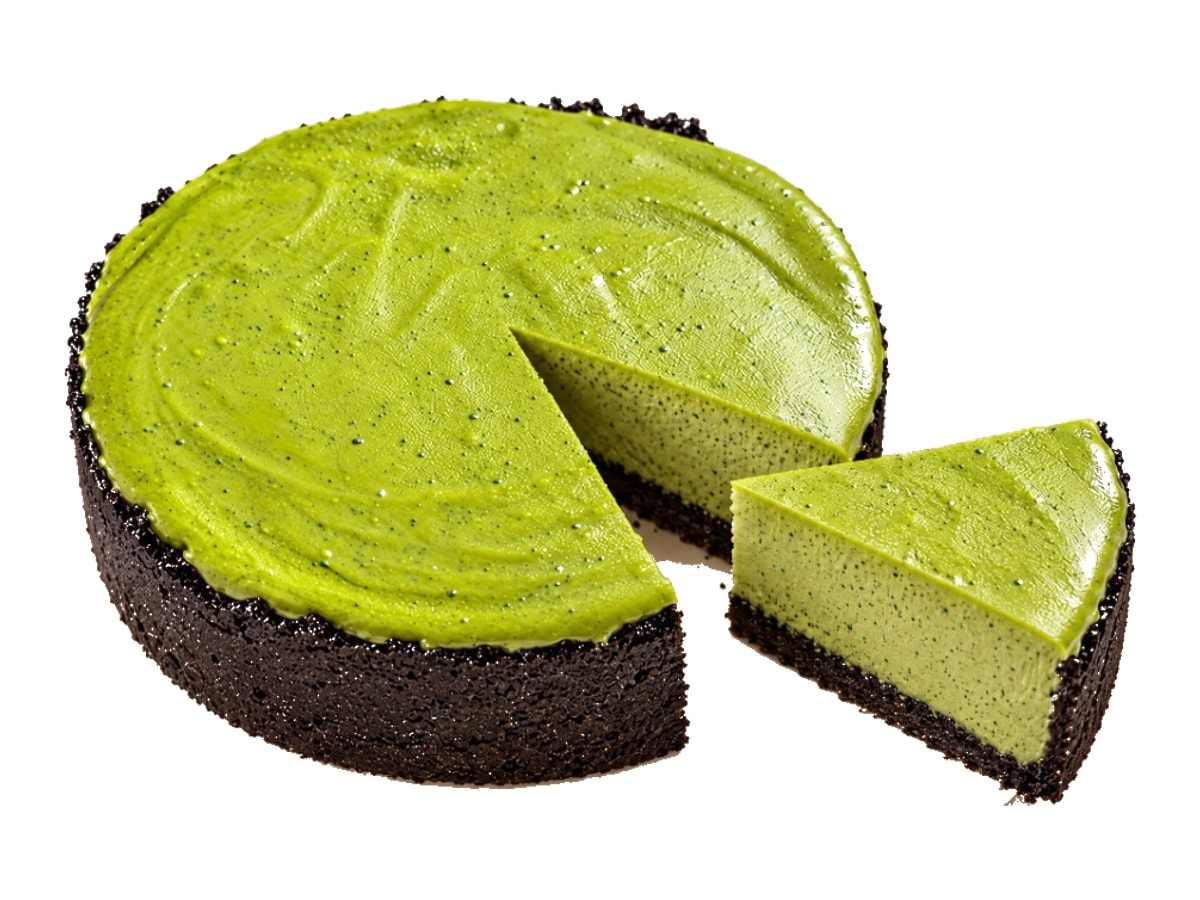
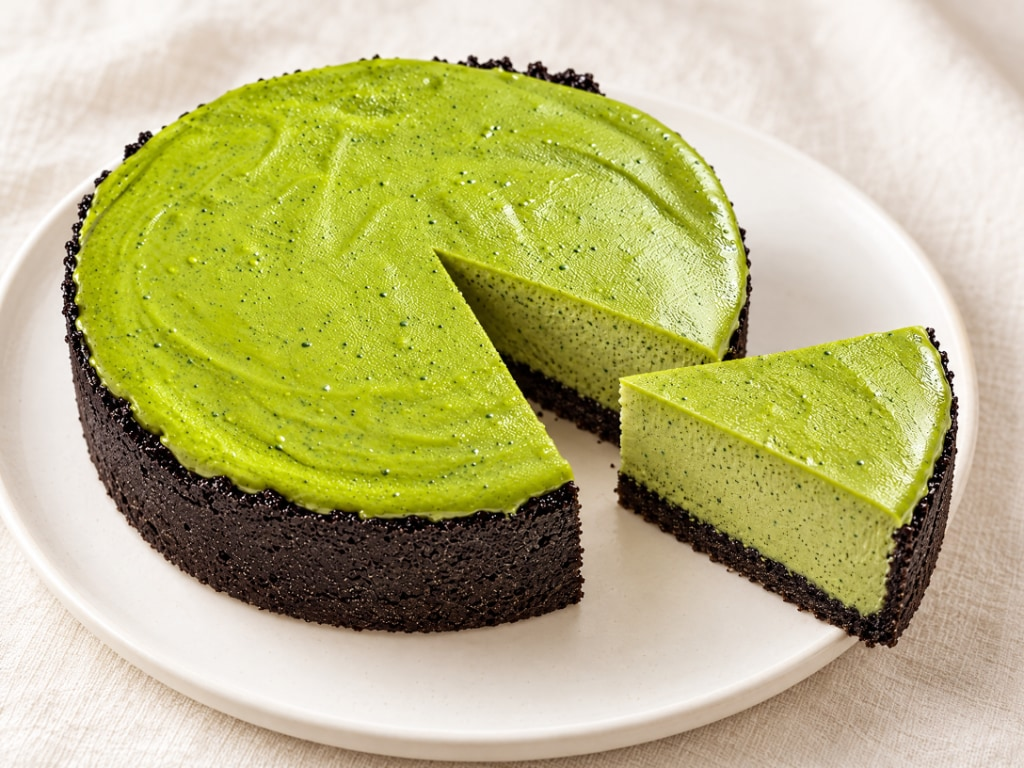
Add matcha mousse product photo gallery

diff --git a/src/components/admin/product-manager.tsx b/src/components/admin/product-manager.tsx
@@ -19,6 +19,7 @@ export type AdminProduct = {
   stock: number;
   isActive: boolean;
   imageUrl: string | null;
+  galleryImages: string[];
   ingredients: string | null;
   internalRecipe: string | null;
   launchAt: Date | null;
@@ -44,6 +45,7 @@ type Draft = {
   stock: string;
   isActive: boolean;
   imageUrl: string;
+  galleryImages: string;
   ingredients: string;
   internalRecipe: string;
   launchAt: string;
@@ -64,6 +66,7 @@ const emptyDraft: Draft = {
   stock: "0",
   isActive: true,
   imageUrl: "",
+  galleryImages: "",
   ingredients: "",
   internalRecipe: "",
   launchAt: "",
@@ -85,6 +88,7 @@ function toDraft(product: AdminProduct): Draft {
     stock: String(product.stock),
     isActive: product.isActive,
     imageUrl: product.imageUrl ?? "",
+    galleryImages: product.galleryImages.join("\n"),
     ingredients: product.ingredients ?? "",
     internalRecipe: product.internalRecipe ?? "",
     launchAt: product.launchAt ? toDateTimeInput(product.launchAt) : "",
@@ -162,6 +166,7 @@ export function ProductManager({ products, categories, initialFilter }: { produc
     stock: Number(draft.stock),
     isActive: draft.isActive,
     imageUrl: draft.imageUrl,
+    galleryImages: draft.galleryImages.split(/\r?\n/).map((imageUrl) => imageUrl.trim()).filter(Boolean),
     ingredients: draft.ingredients,
     internalRecipe: draft.internalRecipe,
     launchAt: draft.launchAt ? new Date(draft.launchAt).toISOString() : null,
@@ -412,6 +417,17 @@ export function ProductManager({ products, categories, initialFilter }: { produc
                   <SafeImage src={draft.imageUrl || null} alt="圖片預覽" sizes="56px" className="object-cover" />
                 </div>
               </div>
+            </div>
+            <div className="sm:col-span-2">
+              <label className="field-label" htmlFor="p-gallery">商品圖片圖集（每行一個圖片網址，最多 8 張）</label>
+              <textarea
+                id="p-gallery"
+                className="field min-h-24"
+                value={draft.galleryImages}
+                onChange={(event) => updateDraft("galleryImages", event.target.value)}
+                placeholder="/images/products/product-photo-1.png&#10;/images/products/product-photo-2.png"
+              />
+              <p className="mt-1 text-xs text-cocoa-soft">商品詳情頁會顯示圖集；商品列表和購物袋仍使用上方的主圖片。</p>
             </div>
             <div className="sm:col-span-2">
               <label className="field-label" htmlFor="p-summary">簡短介紹（卡片顯示）</label>

diff --git a/src/app/(store)/products/[slug]/page.tsx b/src/app/(store)/products/[slug]/page.tsx
@@ -5,7 +5,7 @@ import { ProductPurchase } from "@/components/product-purchase";
 import { ProductLaunchReminder } from "@/components/product-launch-reminder";
 import { ProductViewTracker } from "@/components/product-view-tracker";
 import { FavoriteButton } from "@/components/favorite-button";
-import { SafeImage } from "@/components/safe-image";
+import { ProductImageGallery } from "@/components/product-image-gallery";
 import { Reveal } from "@/components/reveal";
 import { getProductBySlug } from "@/lib/products";
 import { formatLaunchDate } from "@/lib/brand";
@@ -68,22 +68,14 @@ export default async function ProductPage({ params }: { params: Params }) {
       </nav>
 
       <div className="mt-8 grid gap-10 lg:grid-cols-[1.05fr_1fr] lg:gap-16">
-        <div className="relative aspect-[4/3] overflow-hidden rounded-[1.25rem] bg-oat-soft animate-scale-in lg:aspect-[4/5]">
-          <SafeImage
-            src={product.imageUrl}
-            alt={`${product.name} 甜點示意圖片`}
-            priority
-            sizes="(max-width: 1024px) 92vw, 50vw"
-            className="object-cover"
-          />
-          {comingSoon ? (
-            <span className="badge absolute left-4 top-4 bg-caramel text-cream">即將上架</span>
-          ) : !product.isActive ? (
-            <span className="badge absolute left-4 top-4 bg-cocoa/85 text-cream">暫停販售</span>
-          ) : product.stock <= 0 ? (
-            <span className="badge absolute left-4 top-4 bg-cocoa/85 text-cream">缺貨中</span>
-          ) : null}
-        </div>
+        <ProductImageGallery
+          images={product.galleryImages.length > 0 ? product.galleryImages : product.imageUrl ? [product.imageUrl] : []}
+          alt={product.name}
+          badge={
+            comingSoon ? "即將上架" : !product.isActive ? "暫停販售" : product.stock <= 0 ? "缺貨中" : null
+          }
+          badgeTone={comingSoon ? "caramel" : "cocoa"}
+        />
 
         <div>
           <div className="animate-rise" style={{ animationDelay: "120ms" }}>

diff --git a/src/components/product-image-gallery.tsx b/src/components/product-image-gallery.tsx
@@ -1,0 +1,61 @@
+"use client";
+
+import { useState } from "react";
+import { SafeImage } from "@/components/safe-image";
+
+export function ProductImageGallery({
+  images,
+  alt,
+  badge,
+  badgeTone,
+}: {
+  images: string[];
+  alt: string;
+  badge: string | null;
+  badgeTone: "caramel" | "cocoa";
+}) {
+  const [selectedIndex, setSelectedIndex] = useState(0);
+  const selectedImage = images[selectedIndex] ?? images[0] ?? null;
+
+  return (
+    <div className="space-y-3 animate-scale-in">
+      <div className="relative aspect-[4/3] overflow-hidden rounded-[1.25rem] bg-oat-soft lg:aspect-[4/5]">
+        <SafeImage
+          src={selectedImage}
+          alt={`${alt} 商品圖片 ${selectedIndex + 1}`}
+          priority
+          sizes="(max-width: 1024px) 92vw, 50vw"
+          className="object-cover"
+        />
+        {badge ? (
+          <span className={`badge absolute left-4 top-4 ${badgeTone === "caramel" ? "bg-caramel" : "bg-cocoa/85"} text-cream`}>
+            {badge}
+          </span>
+        ) : null}
+      </div>
+      {images.length > 1 ? (
+        <div className="grid grid-cols-3 gap-3" aria-label={`${alt} 更多商品圖片`}>
+          {images.map((image, index) => (
+            <button
+              key={`${image}-${index}`}
+              type="button"
+              onClick={() => setSelectedIndex(index)}
+              aria-label={`查看 ${alt} 第 ${index + 1} 張圖片`}
+              aria-pressed={selectedIndex === index}
+              className={`relative aspect-[4/3] overflow-hidden rounded-lg border-2 bg-oat-soft transition-colors ${
+                selectedIndex === index ? "border-caramel" : "border-transparent hover:border-caramel/50"
+              }`}
+            >
+              <SafeImage
+                src={image}
+                alt=""
+                sizes="(max-width: 640px) 28vw, 15vw"
+                className="object-cover"
+              />
+            </button>
+          ))}
+        </div>
+      ) : null}
+    </div>
+  );
+}

diff --git a/src/app/api/admin/products/route.ts b/src/app/api/admin/products/route.ts
@@ -1,7 +1,7 @@
 import { eq } from "drizzle-orm";
 import { db } from "@/db";
 import { productVariants, products } from "@/db/schema";
-import { isSafeImageUrl, optionalText, requireAdmin, slugify } from "@/lib/admin";
+import { isSafeImageUrl, optionalText, parseImageGallery, requireAdmin, slugify } from "@/lib/admin";
 import { asBool, asInt, asString, fail, ok, readJson } from "@/lib/api";
 import { logAdminAction } from "@/lib/orders";
 import { getAllProductsForAdmin } from "@/lib/products";
@@ -41,11 +41,13 @@ export async function POST(request: Request) {
   const price = asInt(body.price);
   const stock = asInt(body.stock, 0);
   const imageUrl = asString(body.imageUrl, 500);
+  const galleryImages = parseImageGallery(body.galleryImages);
 
   if (name.length < 2) return fail("請填寫商品名稱（至少 2 個字）。");
   if (!Number.isFinite(price) || price < 0 || price > 100000) return fail("請填寫有效的商品價格。");
   if (!Number.isFinite(stock) || stock < 0 || stock > 100000) return fail("請填寫有效的庫存數量。");
   if (!isSafeImageUrl(imageUrl)) return fail("圖片網址格式不正確，請使用 / 開頭的本機路徑或 https 網址。");
+  if (galleryImages === null) return fail("商品圖片圖集最多 8 張，且每個網址都必須是安全圖片網址。");
 
   const variants = parseVariants(body.variants);
   if (variants === null) return fail("商品規格格式不正確。");
@@ -70,6 +72,7 @@ export async function POST(request: Request) {
           stock,
           isActive: asBool(body.isActive, true),
           imageUrl: imageUrl || null,
+          galleryImages,
           ingredients: optionalText(body.ingredients, 1000),
           internalRecipe: optionalText(body.internalRecipe, 12000),
           launchAt,

diff --git a/src/app/api/admin/products/[id]/route.ts b/src/app/api/admin/products/[id]/route.ts
@@ -1,7 +1,7 @@
 import { eq } from "drizzle-orm";
 import { db } from "@/db";
 import { orderItems, productVariants, products } from "@/db/schema";
-import { isSafeImageUrl, optionalText, requireAdmin, slugify } from "@/lib/admin";
+import { isSafeImageUrl, optionalText, parseImageGallery, requireAdmin, slugify } from "@/lib/admin";
 import { asBool, asInt, asString, fail, ok, readJson } from "@/lib/api";
 import { logAdminAction } from "@/lib/orders";
 
@@ -69,6 +69,11 @@ export async function PATCH(request: Request, context: { params: Promise<{ id: s
       const imageUrl = asString(body.imageUrl, 500);
       if (!isSafeImageUrl(imageUrl)) return fail("圖片網址格式不正確。");
       patch.imageUrl = imageUrl || null;
+    }
+    if ("galleryImages" in body) {
+      const galleryImages = parseImageGallery(body.galleryImages);
+      if (galleryImages === null) return fail("商品圖片圖集最多 8 張，且每個網址都必須是安全圖片網址。");
+      patch.galleryImages = galleryImages;
     }
     if ("ingredients" in body) patch.ingredients = optionalText(body.ingredients, 1000);
     if ("internalRecipe" in body) patch.internalRecipe = optionalText(body.internalRecipe, 12000);

diff --git a/src/lib/products.ts b/src/lib/products.ts
@@ -80,6 +80,7 @@ export async function listProducts(filters: ProductFilters = {}): Promise<Produc
         stock: products.stock,
         isActive: products.isActive,
         imageUrl: products.imageUrl,
+        galleryImages: products.galleryImages,
         ingredients: products.ingredients,
         launchAt: products.launchAt,
         allergens: products.allergens,
@@ -125,6 +126,7 @@ export async function getProductBySlug(slug: string): Promise<ProductDetail | nu
           viewCount: products.viewCount,
           cartAddCount: products.cartAddCount,
           imageUrl: products.imageUrl,
+          galleryImages: products.galleryImages,
           ingredients: products.ingredients,
           launchAt: products.launchAt,
           allergens: products.allergens,

diff --git a/src/lib/admin.ts b/src/lib/admin.ts
@@ -27,6 +27,19 @@ export function isSafeImageUrl(value: string): boolean {
   }
 }
 
+export function parseImageGallery(value: unknown): string[] | null {
+  if (value == null) return [];
+  if (!Array.isArray(value) || value.length > 8) return null;
+
+  const images = value.map((item) => {
+    if (typeof item !== "string") return null;
+    const imageUrl = item.trim();
+    return imageUrl && imageUrl.length <= 500 && isSafeImageUrl(imageUrl) ? imageUrl : null;
+  });
+  if (images.some((image) => image === null)) return null;
+  return [...new Set(images.filter((image): image is string => image !== null))];
+}
+
 export function optionalText(value: unknown, max = 1000): string | null {
   if (typeof value !== "string") return null;
   const trimmed = value.trim();

diff --git a/src/db/schema.ts b/src/db/schema.ts
@@ -3,6 +3,7 @@ import {
   date,
   index,
   integer,
+  jsonb,
   pgTable,
   primaryKey,
   serial,
@@ -90,6 +91,7 @@ export const products = pgTable(
     viewCount: integer("view_count").notNull().default(0),
     cartAddCount: integer("cart_add_count").notNull().default(0),
     imageUrl: text("image_url"),
+    galleryImages: jsonb("gallery_images").$type<string[]>().notNull().default([]),
     ingredients: text("ingredients"),
     internalRecipe: text("internal_recipe"),
     launchAt: timestamp("launch_at", { withTimezone: true }),

diff --git a/src/app/admin/products/page.tsx b/src/app/admin/products/page.tsx
@@ -27,6 +27,7 @@ export default async function AdminProductsPage({ searchParams }: { searchParams
     stock: product.stock,
     isActive: product.isActive,
     imageUrl: product.imageUrl,
+    galleryImages: product.galleryImages,
     ingredients: product.ingredients,
     allergens: product.allergens,
     storageInfo: product.storageInfo,

diff --git a/src/app/api/products/route.ts b/src/app/api/products/route.ts
@@ -18,6 +18,7 @@ export async function GET(request: Request) {
       stock: item.stock,
       isActive: item.isActive,
       imageUrl: item.imageUrl,
+      galleryImages: item.galleryImages,
       launchAt: item.launchAt,
       categoryName: item.categoryName,
       categorySlug: item.categorySlug,

diff --git a/README.md b/README.md
@@ -116,7 +116,7 @@ $env:BASE_URL="http://localhost:3000"; $env:ADMIN_EMAIL="you@example.com"; $env:
   - **商品管理**：新增／編輯／上下架／庫存／規格／成分與過敏原，可在商品編輯視窗更新商品圖片。
     - 商品可設定台灣時間的預計上架日，前台會顯示「即將上架」並禁止提前購買；管理員可在「內部食譜」欄位記錄食材份量與製作步驟，該欄位只提供管理 API，不會輸出到公開商品頁或商品 API。
     - 顧客可登記單一商品的 Email 上架提醒。Vercel Cron 每天台灣時間 00:00 檢查已到上架時間且已設定價格、庫存的商品；正式環境需設定 `CRON_SECRET`。
-    - 部署新版前先在 Neon SQL Editor 執行 `scripts/prepare-matcha-oreo-launch.sql` 建立欄位與通知資料表；新版部署完成後再執行 `scripts/seed-matcha-oreo-mousse.sql` 新增預告商品。上架前請在後台填妥售價與庫存。
+    - 部署新版前先在 Neon SQL Editor 執行 `scripts/prepare-matcha-oreo-launch.sql` 建立欄位與通知資料表，以及 `scripts/add-product-gallery-images.sql` 建立商品圖集欄位；新版部署完成後再執行 `scripts/seed-matcha-oreo-mousse.sql` 新增或更新預告商品與圖片。上架前請在後台填妥售價與庫存。
   - **會員帳號**：以姓名或 Email 搜尋帳號並查看訂單數，從會員資料頁連結到訂單清單。
   - **訂單管理**：確認 → 完成取貨；面交收款後再標記「已付款」；取消會恢復庫存（僅一次）。
   - **公告管理**：發布站內公告、選擇同步寄送 Email，查看寄送結果並重試失敗郵件。
